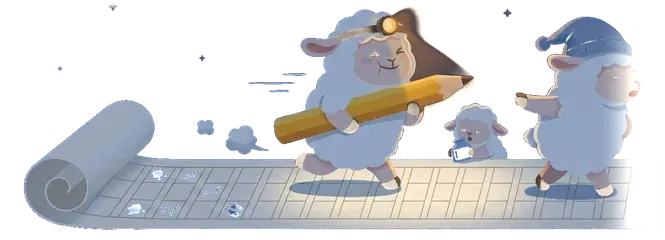
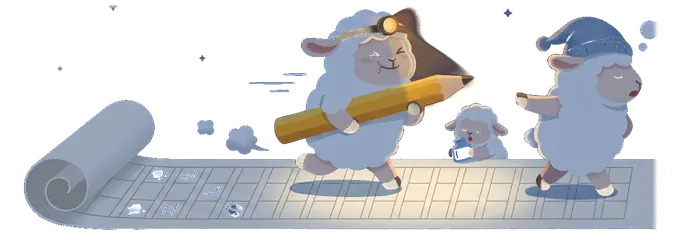
배경다시개선

diff --git a/frontend/docs/typing-relay-banner-bg-prompts.md b/frontend/docs/typing-relay-banner-bg-prompts.md
@@ -273,8 +273,9 @@ behind it, open and ready to receive the baton. Everything else must stay pixel-
   채웠는데, 워터마크가 오른쪽 띠(≈1672,472)에 떨어졌다. `(300,100)-(1492,530)` 크롭이면 띠째 사라진다.
 - **하늘을 투명으로 뺐다** — 위쪽 30px 중앙값을 하늘색으로 잡고 색 거리 22~70 을 알파 램프로,
   반투명 픽셀은 하늘색을 언믹스. 하늘 네모를 그대로 두면 배너 그라데이션과 색이 달라 상자가 보였다.
-  가장자리 페이드도 함께 구움(좌 30 · 우 120 · 위 20 · 아래 24px, 원본 기준).
-- 최종 `src/assets/typing-relay/banner-{light,dark}.webp` 665×240, 각 ≈30KB.
+  가장자리 페이드도 함께 구움(좌 30 · 우 26 · 위 20 · 아래 24px, 원본 기준) + 오른쪽에 투명 여백 24px.
+  **우측 페이드를 넓히면(120px) 받는 양 얼굴이 흐려져 잘려 보인다** — 양 코끝이 원본 x≈1462 라 26px 이내로.
+- 최종 `src/assets/typing-relay/banner-{light,dark}.webp` 679×240, 각 ≈30KB.
 - **배치**: `.bt-studyroom::before` 에 `auto 100%` 높이맞춤, `right var(--relay-art-right)` —
   버튼 폭만큼 비켜 선다(기본 146px, 바통 버튼 있으면 `.has-pass` 266px).
   배너 자신이 `container-type: inline-size` 라 폭 760px(바통 있으면 880px) 아래에선 삽화를 숨긴다.
